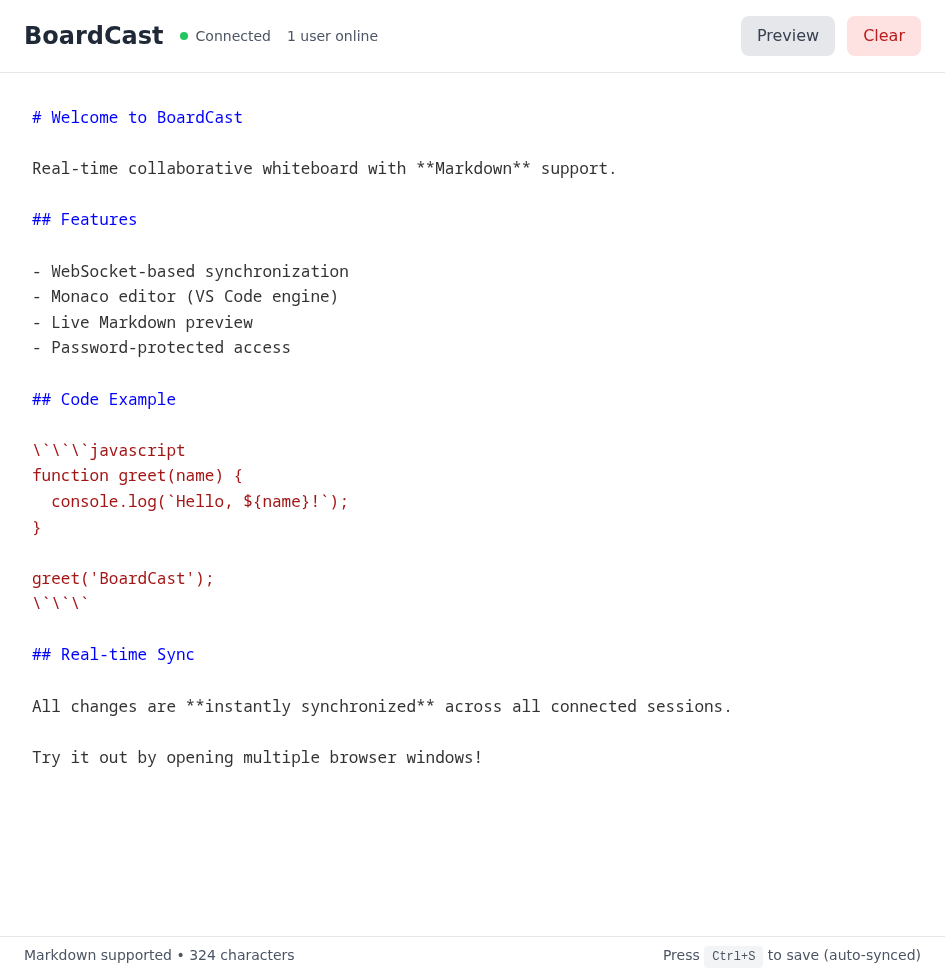
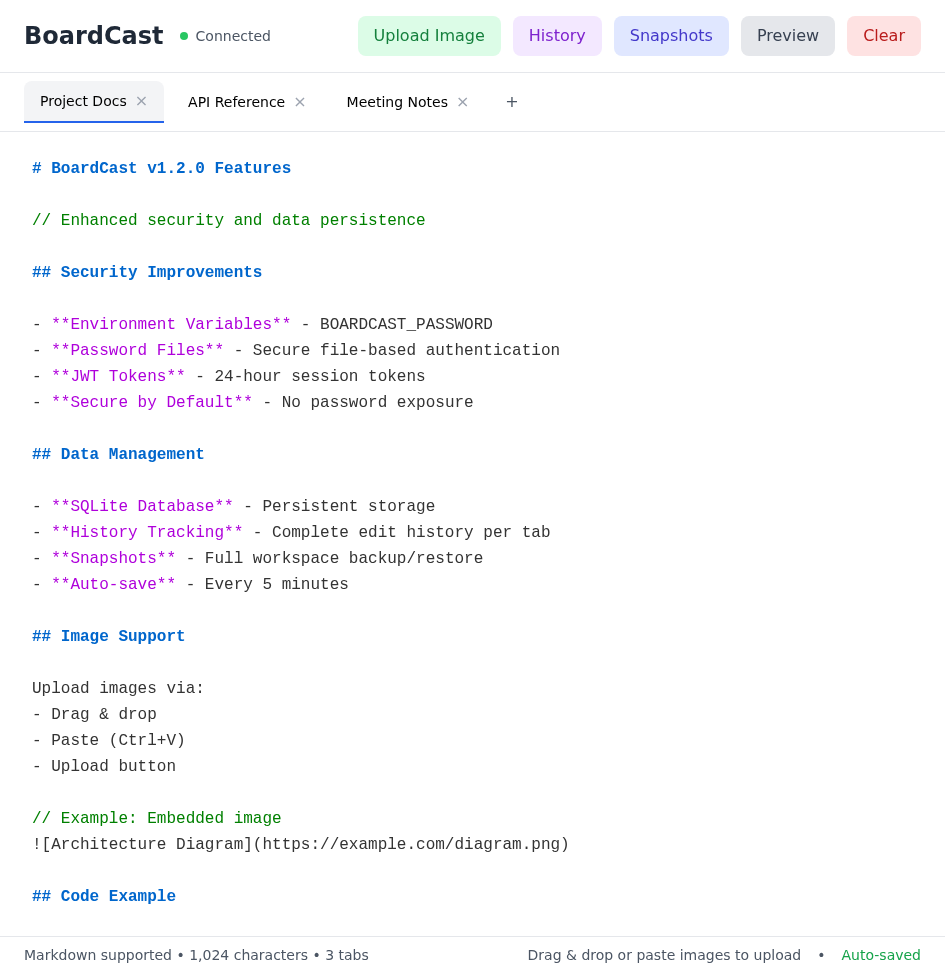
Fix: Remove unused imports and update screenshots
Bug Fixes:
- Remove unused imports (encoding/base64, path/filepath) causing build failure
- Fixes Docker build compilation error

Screenshots Update:
- Update screenshot-editor.png with v1.2.0 features (Upload Image, History, Snapshots buttons)
- Add screenshot-history.png showing history tracking sidebar
- Add screenshot-snapshots.png showing snapshot management UI
- Update README with new screenshot descriptions and captions

All screenshots now reflect v1.2.0 features:
- Editor: 104KB (multi-tab with new buttons)
- History: 61KB (history sidebar with restore)
- Snapshots: 72KB (snapshot management UI)
- Login: 77KB (unchanged)
- Preview: 63KB (unchanged)

diff --git a/main.go b/main.go
@@ -2,7 +2,6 @@ package main
 
 import (
 	"crypto/rand"
-	"encoding/base64"
 	"encoding/json"
 	"flag"
 	"fmt"
@@ -10,7 +9,6 @@ import (
 	"log"
 	"net/http"
 	"os"
-	"path/filepath"
 	"strings"
 	"sync"
 	"time"

diff --git a/README.md b/README.md
@@ -39,12 +39,23 @@ A modern, real-time collaborative whiteboard application with Markdown support, 
 
 ### Login Screen
 ![Login Screen](docs/screenshot-login.png)
+*Secure password-based authentication with JWT tokens*
 
-### Editor Mode with Multiple Tabs
+### Editor Mode with New Features
 ![Editor Mode](docs/screenshot-editor.png)
+*Multi-tab interface with Upload Image, History, Snapshots, Preview, and Clear buttons*
+
+### History Tracking
+![History Feature](docs/screenshot-history.png)
+*Browse and restore from complete edit history with timestamps*
+
+### Snapshot Management
+![Snapshot Feature](docs/screenshot-snapshots.png)
+*Create named snapshots and restore entire workspace with one click*
 
 ### Preview Mode
 ![Preview Mode](docs/screenshot-preview.png)
+*Live Markdown preview with rendered formatting*
 
 ## Quick Start
 
